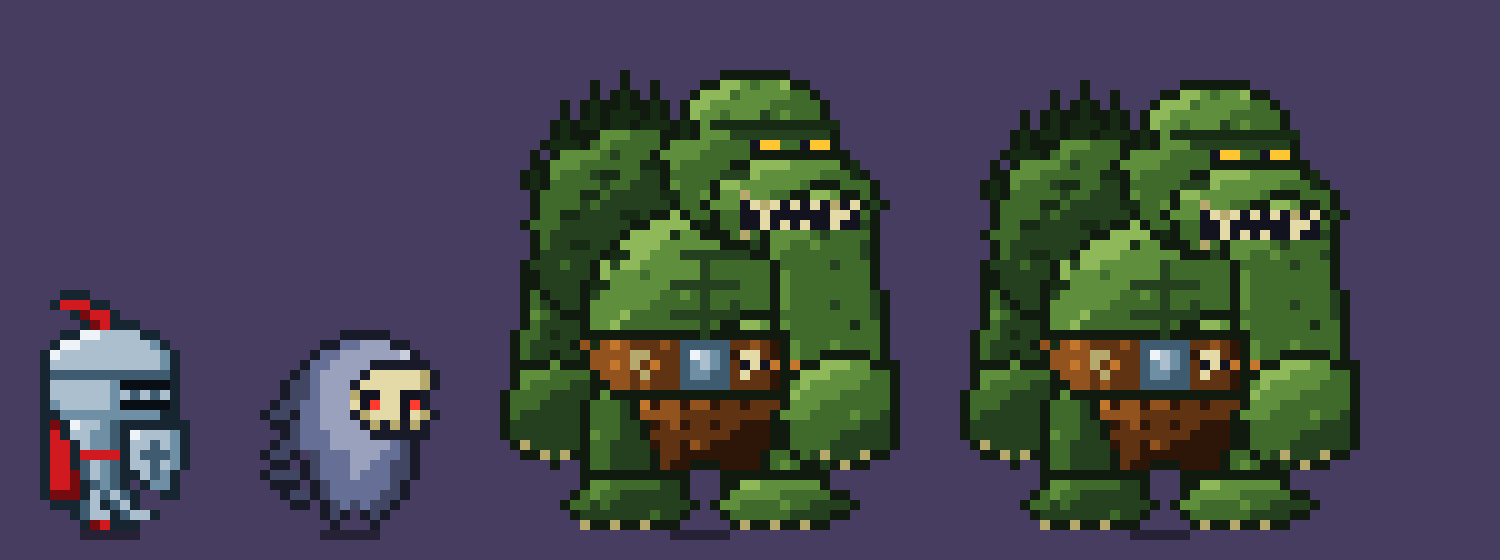
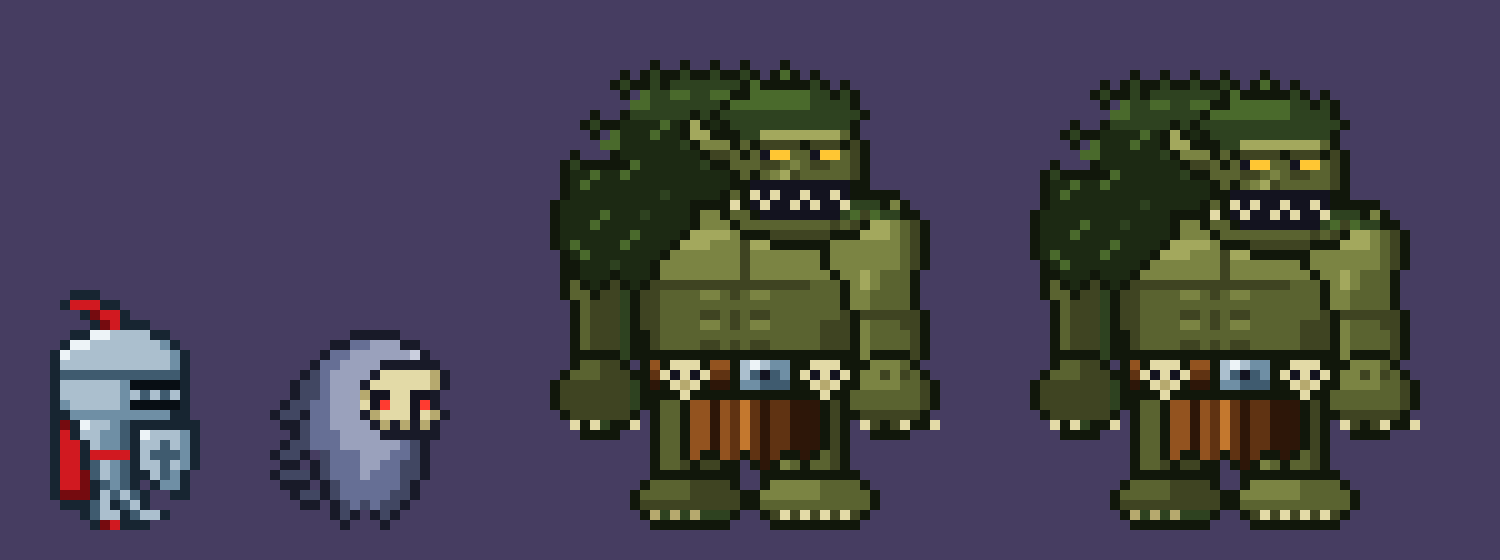
Troll redesign after the reference (olive skin, moss mane, V body), raised side shield, gold parry crescent
- Troll 40x48: dark moss mane behind a lighter olive face and chest, gaps between arms and flanks, slit eyes,
  fanged mouth, belt skulls and ring buckle; new troll skin and moss ramps
- Shield: 11x14 heater held on the facing side, visor clear
- Block: drawParry, a smaller copy of the sword crescent in the coin ramp (shared drawCrescent; sword unchanged)
- STYLE_GUIDELINES updated, previews in docs/

diff --git a/public/app.js b/public/app.js
@@ -80,7 +80,7 @@ const ANIM_MS = 260;              // idle animation frame time
 const STRIKE_MS = 800;            // strike overlay: held at full strength, then fades (STRIKE_HOLD)
 const STRIKE_HOLD = .5;           // share of STRIKE_MS before the fade starts
 const STRIKE_COLOR = '#ff3a2c', BLOCK_COLOR = '#8fb4ff';
-const SHIELD_SLASH_MS = 200;      // the block spark: 4 discrete frames, shorter than the sword's slash
+const SHIELD_SLASH_MS = 260;      // the parry crescent: 6 frames like the sword's slash, a little quicker
 const SLASH_MS = 340;             // the slash crescent sweeps in the first part of STRIKE_MS, then is gone
 // Slash palette, outer rim to bright core: the explorer's sword is white-blue, a ghost's claw red-white.
 const SLASH_COLORS = {
@@ -895,19 +895,26 @@ function drawSlash(st, t, cx, cy, known, reveal) {
   const [tx, ty] = scr(mx, my);
   let dx = tx - ox, dy = ty - oy;
   if (Math.hypot(dx, dy) < 2) { dx = FACE_X[game.facing] ?? 1; dy = 0; } // no aim known: slash across the cell
+  drawCrescent(ox, oy, dx, dy, t, {
+    frames: SLASH_FRAMES, sweep: 2.3, reach: Math.min(26, Math.max(13, Math.hypot(dx, dy) * 1.25)),
+    wTail: 1.5, wHead: 6, bow: 1.5, pal: SLASH_COLORS[st.by === 'explorer' ? 'sword' : 'claw'], alpha: st.result === 'miss' ? .6 : 1,
+  });
+}
+
+// The crescent both swings share (the sword slash and the shield's parry), swept around (ox, oy) toward (dx, dy):
+// `frames` discrete frames, `sweep` radians when finished, arc radius `reach`, half-width swelling from `wTail` at
+// the tail to about wTail + wHead at the head, the head bowed `bow` px further out; 4 tones of `pal`, rim to core.
+function drawCrescent(ox, oy, dx, dy, t, { frames, sweep, reach, wTail, wHead, bow, pal, alpha }) {
   const aim = Math.atan2(dy, dx);
-  const reach = Math.min(26, Math.max(13, Math.hypot(dx, dy) * 1.25)); // radius of the arc
   const flip = dx >= 0 ? 1 : -1; // the swing is mirrored for a cut toward the left of the screen
-  const frame = Math.min(SLASH_FRAMES - 1, Math.floor(t * SLASH_FRAMES));
-  const sweepFull = 2.3; // radians covered by a finished slash
-  const p = (frame + 1) / SLASH_FRAMES;                   // how far the head has swept
-  const tail = Math.max(0, p * 1.35 - 1) * sweepFull;       // the tail catches up late: the crescent thins out
-  const head = p * sweepFull;
-  const fade = frame >= SLASH_FRAMES - 2 ? .55 : 1;
-  const pal = SLASH_COLORS[st.by === 'explorer' ? 'sword' : 'claw'];
-  const lead = flip > 0 ? aim - sweepFull / 2 : aim + sweepFull / 2; // where the sweep starts
-  b.globalAlpha = (st.result === 'miss' ? .6 : 1) * fade;
-  const R = Math.ceil(reach + 6);
+  const frame = Math.min(frames - 1, Math.floor(t * frames));
+  const p = (frame + 1) / frames;                          // how far the head has swept
+  const tail = Math.max(0, p * 1.35 - 1) * sweep;          // the tail catches up late: the crescent thins out
+  const head = p * sweep;
+  const fade = frame >= frames - 2 ? .55 : 1;
+  const lead = flip > 0 ? aim - sweep / 2 : aim + sweep / 2; // where the sweep starts
+  b.globalAlpha = alpha * fade;
+  const R = Math.ceil(reach + wHead);
   for (let y = -R; y <= R; y++) {
     for (let x = -R; x <= R; x++) {
       const r = Math.hypot(x, y);
@@ -915,8 +922,8 @@ function drawSlash(st, t, cx, cy, known, reveal) {
       ang = Math.atan2(Math.sin(ang), Math.cos(ang)) * flip; // signed angle along the sweep, 0 at its start
       if (ang < tail || ang > head) continue;
       const u = (ang - tail) / Math.max(.001, head - tail);    // 0 at the tail, 1 at the head
-      const w = (1.5 + 6 * Math.sin(Math.min(1, u * .9 + .1) * Math.PI * .5) * (1 - .35 * (1 - u) * (1 - u))); // half-width
-      const off = r - reach + (u - .5) * 1.5;                 // the arc bows: the head sits a touch further out
+      const w = (wTail + wHead * Math.sin(Math.min(1, u * .9 + .1) * Math.PI * .5) * (1 - .35 * (1 - u) * (1 - u))); // half-width
+      const off = r - reach + (u - .5) * bow;                 // the arc bows: the head sits a touch further out
       if (Math.abs(off) > w) continue;
       const f = 1 - Math.abs(off) / w;                        // 0 at the rim, 1 on the centre line
       const tone = f > .72 && u > .25 ? 3 : f > .45 ? 2 : f > .2 ? 1 : 0;
@@ -927,43 +934,22 @@ function drawSlash(st, t, cx, cy, known, reveal) {
   b.globalAlpha = 1;
 }
 
-// Block spark (a claw met the shield): not a slash but an impact burst on the shield's edge toward the attacker,
-// in 4 discrete frames of the coin-gold ramp: a white-hot cross, a tight ring, a broken wide ring, then a few
-// fading sparks. Rings are 2:1 iso diamonds (|dx| + 2|dy|), so they match the floor's slope. Per pixel, no
-// rotation. Skipped when the attacker's cell is outside the light unless Reveal is on, like the slash.
-const SPARK_FRAMES = 4;
-const SPARK_SCATTER = [[-13, 0], [13, 0], [0, -7], [0, 7], [-9, -4], [9, 4], [-9, 4], [9, -4]];
-function drawBlockSpark(from, t, cx, cy, known, reveal) {
+// Parry (a claw met the shield): the sword's crescent, smaller and in the coin-gold ramp (the shield's face),
+// swept from the raised shield toward the attacker: the shield knocks the claw aside. Same frame count and
+// thin-tail / fat-head shape as the slash at about half its size (radius 11, head about 4.5 px half-width).
+// Skipped when the attacker's cell is outside the light unless Reveal is on, like the slash.
+const PARRY_FRAMES = 6;
+function drawParry(from, t, cx, cy, known, reveal) {
   if (!Number.isInteger(from[0]) || !Number.isInteger(from[1]) || !(reveal || known(from[0], from[1]))) return;
   const scr = (x, y) => [(x - y) * HW - cx, (x + y) * HH + HH - cy];
   const [kx, ky] = scr(game.pos[0], game.pos[1]);
   const [ax, ay] = scr(from[0], from[1]);
   let dx = ax - kx, dy = ay - ky;
   if (Math.hypot(dx, dy) < 2) { dx = FACE_X[game.facing] ?? 1; dy = 0; }
-  const len = Math.hypot(dx, dy);
-  const ix = Math.round(kx + (dx / len) * 8), iy = Math.round(ky - 10 + (dy / len) * 4); // shield edge, at torso height
-  const pal = SLASH_COLORS.shield;
-  const dot = (x, y, tone) => { b.fillStyle = pal[tone]; b.fillRect(ix + x, iy + y, 1, 1); };
-  const frame = Math.min(SPARK_FRAMES - 1, Math.floor(t * SPARK_FRAMES));
-  if (frame === 0) {
-    dot(0, 0, 3);
-    for (const [x, y] of [[1, 0], [-1, 0], [0, 1], [0, -1]]) dot(x, y, 2);
-  } else if (frame === 1) {
-    for (let y = -3; y <= 3; y++) for (let x = -7; x <= 7; x++) {
-      const d = Math.abs(x) + 2 * Math.abs(y);
-      if (d === 5 || d === 6) dot(x, y, d === 5 ? 3 : 2);
-    }
-  } else if (frame === 2) {
-    for (let y = -5; y <= 5; y++) for (let x = -12; x <= 12; x++) {
-      const d = Math.abs(x) + 2 * Math.abs(y);
-      if ((d === 10 || d === 11) && (Math.abs(x) + Math.abs(y)) % 2 === 0) dot(x, y, d === 10 ? 2 : 1);
-    }
-    for (const [x, y] of [[-8, 0], [8, 0], [0, -4], [0, 4]]) dot(x, y, 3);
-  } else {
-    b.globalAlpha = .55;
-    for (const [x, y] of SPARK_SCATTER) dot(x, y, 1);
-    b.globalAlpha = 1;
-  }
+  const face = actors.get('@')?.face ?? 1;
+  drawCrescent(kx + face * SHIELD_HOLD_X, ky - SHIELD_TOP + SHIELD_H / 2, dx, dy, t, {
+    frames: PARRY_FRAMES, sweep: 1.9, reach: 11, wTail: 1, wHead: 3.5, bow: .8, pal: SLASH_COLORS.shield, alpha: 1,
+  });
 }
 
 // pass 'fill' runs in the flats pass, 'edge' after the entities; only 'edge' retires strikeFx.
@@ -995,41 +981,44 @@ function drawStrikes(cx, cy, now, known, reveal, pass = 'fill') {
     for (const st of strikeFx.strikes) {
       const blockedClaw = st.result === 'blocked' && st.by !== 'explorer';
       if (t < 1 && !blockedClaw) drawSlash(st, t, cx, cy, known, reveal); // a blocked claw shows only the shield's spark
-      // A blocked claw bursts a spark on the shield's edge facing the attacker.
-      if (blockedClaw && ts < 1 && Array.isArray(st.from) && Array.isArray(game.pos)) drawBlockSpark(st.from, ts, cx, cy, known, reveal);
+      // A blocked claw: the raised shield parries with a small gold crescent toward the attacker.
+      if (blockedClaw && ts < 1 && Array.isArray(st.from) && Array.isArray(game.pos)) drawParry(st.from, ts, cx, cy, known, reveal);
     }
   }
 }
 
-// Shield over the knight while game.block is active: a 15x14 art px heater shield, hand-placed like the sprites.
-// Steel ramp rim (outline #172531; lit top-left, shaded bottom-right; W rivets), coin-gold face (h lit, Y body,
-// y shade) with a steel boss on a centre seam. Authored at full brightness; it flashes on the block's spark frames.
-const SHIELD_W = 15, SHIELD_H = 14;
+// Shield raised while game.block is active: an 11x14 art px heater shield, hand-placed like the sprites, held out
+// on the knight's facing side over the small shield in its sprite (the visor stays clear). Steel ramp rim
+// (outline #172531; W lit top-left edge, M right, D shaded bottom-right; W rivets in the top corners), coin-gold
+// face split down a seam (h / Y lit half, y shaded half) with a domed steel boss. Symmetric, so it is not mirrored;
+// the light stays upper left. Authored at full brightness; it flashes on alternate parry frames.
+const SHIELD_W = 11, SHIELD_H = 14;
+const SHIELD_HOLD_X = 5, SHIELD_TOP = 13; // centre column from the knight's anchor (toward its face), top row above the feet
 const SHIELD_COLORS = { o: '#172531', D: '#3f5b6f', M: '#6f8fa5', L: '#abbfce', W: '#edf3f7', y: '#c98a14', Y: '#ffc633', h: '#fff0a8' };
 const SHIELD_FLASH = { o: '#edf3f7', D: '#abbfce', M: '#edf3f7', L: '#ffffff', W: '#ffffff', y: '#ffc633', Y: '#fff0a8', h: '#ffffff' };
 const SHIELD_ROWS = [
-  '.ooooooooooooo.',
-  'oWLLLLLLLLLLLMo',
-  'oLhhhhhhhhhhhWo',
-  'oLhhYYYyYYYYYMo',
-  'oLhYYYYyYYYYyMo',
-  'oLhYYYLWLYYYyMo',
-  'oLYYYYMLDYYyyMo',
-  'oLYYYYMDDYYyyDo',
-  '.oLYYYYyYYyyDo.',
-  '.oLYYYYyYyyyDo.',
-  '..oLYYYyYyyDo..',
-  '...oLYyyyYDo...',
-  '....oMyyyDo....',
-  '.....ooooo.....',
+  '.ooooooooo.',
+  'oWWLLLLLLMo',
+  'oWhhhhYYyMo',
+  'oLhYYYYyyMo',
+  'oLhYYLYyyMo',
+  'oLhYLWMyyMo',
+  'oLYYMMDyyDo',
+  'oLYYYDyyyDo',
+  '.oLYYYyyDo.',
+  '.oLYYYyyDo.',
+  '..oLYYyDo..',
+  '..oMYYyDo..',
+  '...oMyDo...',
+  '....ooo....',
 ];
-function drawShield(x, y, now) { // x: centre column, y: top row; flashes while a block's spark plays
+function drawShield(x, y, now) { // x: centre column, y: top row; flashes on alternate parry frames
   const flashing = strikeFx && strikeFx.strikes.some((st) => st.result === 'blocked' && st.by !== 'explorer')
-    && (now - strikeFx.t0) / SHIELD_SLASH_MS < 1 && Math.floor((now - strikeFx.t0) / SHIELD_SLASH_MS * SPARK_FRAMES) % 2 === 0;
+    && (now - strikeFx.t0) / SHIELD_SLASH_MS < 1 && Math.floor((now - strikeFx.t0) / SHIELD_SLASH_MS * PARRY_FRAMES) % 2 === 0;
   SHIELD_ROWS.forEach((row, ry) => [...row].forEach((ch, rx) => {
     if (ch === '.') return;
     b.fillStyle = (flashing ? SHIELD_FLASH : SHIELD_COLORS)[ch];
-    b.fillRect(x - 7 + rx, y + ry, 1, 1);
+    b.fillRect(x - (SHIELD_W >> 1) + rx, y + ry, 1, 1);
   }));
 }
 
@@ -1128,7 +1117,7 @@ function drawEntity(en, now, cx, cy) {
     const blink = game?.invulnerable && Math.floor(now / BLINK_MS) % 2 === 1;
     blitSprite(spr, px, py, en.face, blink ? .3 : 1);
     drawCoinGlow(px, py, now);
-    if (game?.block) drawShield(px, py - 13, now); // top edge two rows into the helmet's bottom: covers about a quarter of the helmet
+    if (game?.block) drawShield(px + en.face * SHIELD_HOLD_X, py - SHIELD_TOP, now); // raised on the facing side, below the visor
     heads.set(en.id, { x: px, y: py - spr.anchorY, alpha: 1 });
     return;
   }

diff --git a/public/sprites.js b/public/sprites.js
@@ -128,82 +128,87 @@ const CHEST_A = [
 ];
 
 const TROLL_PAL = {
-  o: '#101a0e', // outline (green-tinted dark)
-  m: '#172b14', // moss (deep shade)
-  d: '#25401f', // skin shade
-  g: '#3f6a2b', // skin
-  l: '#5f8f3c', // skin light
-  h: '#8fb85a', // skin highlight
-  e: '#ffc633', // glowing yellow eye (coin gold)
-  k: '#13131f', // mouth, pupils
-  b: '#e3daa7', // teeth, tusks, claws, belt trinkets (bone ramp)
+  o: '#11170b', // outline (olive-tinted dark)
+  m: '#1c2913', // moss deep
+  d: '#2e4220', // moss
+  v: '#4a6a2c', // moss tuft light
+  s: '#3f4422', // skin shade (olive)
+  g: '#5a6330', // skin
+  l: '#7b8443', // skin light
+  h: '#a3a85d', // skin highlight
+  e: '#ffc633', // glowing slit eyes (coin gold)
+  k: '#13131f', // mouth, skull sockets (bone ramp socket)
+  b: '#e3daa7', // fangs, tusks, claws, skulls (bone ramp)
   B: '#b6a96e', // bone shade
   x: '#2d1608', // belt and loincloth (wood ramp)
   w: '#603312',
   W: '#93531f',
   c: '#c4782e',
-  n: '#3f5b6f', // belt buckle (steel ramp)
+  n: '#3f5b6f', // ring buckle (steel ramp)
   M: '#6f8fa5',
   L: '#abbfce',
   q: '#edf3f7',
 };
 
 // ---------------------------------------------------------------- troll 40x48 (two blocks tall: twice the knight)
-// A hunched brute lit from the upper left: a moss-spiked hump, a fanged jaw with two tusks and glowing eyes, long
-// arms ending in clawed fists, a wood belt with a steel buckle and bone trinkets, a ragged loincloth. Far limbs
-// and the back sit one tone darker for depth. TROLL_B settles the head and shoulders one row (breathing).
+// A hunched brute lit from the upper left. Value hierarchy: a dark moss mane (crest over the crown, drape over the
+// far shoulder) behind a lighter olive face and chest, split from the legs by the dark belt. A V-shaped body with
+// clear gaps between the arms and the flanks; a small forward head with a pointed ear, gold slit eyes and a fanged
+// mouth; pecs and abs drawn with shade tones, not outlines. Story details: the steel ring buckle, two bone skulls on
+// the belt, rag strips on the loincloth, bone claws on fists and toes. The far arm and leg sit one tone darker.
+// TROLL_B settles everything above row 21 (a plain chest row under the pecs) by one row (breathing).
 const TROLL_A = [
   '........................................',
-  '........................................',
-  '............o.........ooooooo...........',
-  '.........o..o..o....oohhlgllhoo.........',
-  '.........o.omo.o...ohhhglllllggo........',
-  '......o.omoomoomo.ohhllllllgggggo.......',
-  '......o.omommmomo.ohllgllldglgggo.......',
-  '.....omommommommmomolmmmmmmmmmmmmm......',
-  '.....omooolllgggoomolllddddddddddo......',
-  '....ommmoglgggggollllggggkeeggkeeo......',
-  '...o.ollllgdgggollllgggggoooooooooo.....',
-  '...oolllggggggmmolgggggoohhhhlllllom....',
-  '..omolgggdmmggddogggggdddhllllllgggmo...',
-  '..omogggggdggdddolgggohhllllllgooogggo..',
-  '...oggggmmgdddddmmgglollBllggoohhloogo..',
-  '...oggggdgdddddddoggolllkbBbkbkbkBkbodo.',
-  '...oggmmddddmmdoohoggoggkkbkkkkkkbbkgo..',
-  '..ogggdddddddoohhhhomoggkkbkbkbkkbkkdo..',
-  '...ogdddddddohhhhmllooogBgollllgdggggo..',
-  '...ogddmmddohhhhllllllooodollgglggggdo..',
-  '...oddddddommhhllldddddddoolggggggggdo..',
-  '..odddgddohdhhlllllldggggggogggggdgggo..',
-  '..oodddddohlllgllllldggggggolggggggggo..',
-  '..ooddddommlllllldddddddgggolggggggggo..',
-  '..ogodddodllllllgglgdggggggolggggggggdo.',
-  '..ogdoddollllllgggggdggdgggolggggdgggdo.',
-  '..olgdooolllhggggdddddddoooogggggggggdo.',
-  '..ogddddollhggggggggdgoohhlolggggggmggo.',
-  '.oggdmddoooooooooooodoooooooogggggggggo.',
-  '.ogddddoWmWcWwwwWwnnnnnwwWwxolggglggggo.',
-  '.ogddoddoWWWWBBwwwnqLMnxbbwxolggooooogo.',
-  '.ooooloooWWcWBwcwwnMLMnwkbkcocoohhhllooo',
-  '.olllggggoWWWwBwwwnMMnnwbwwxoohhhllllggo',
-  '.olggggddooWWwWwwwnnnnnwwwwxolhlllllgggo',
-  'oggggddddoloooooooooooooooooohllllgggggo',
-  'ogggddddogggdocxWWxWWxwwxwwwolllgggggggo',
-  'ogddddddogggdoWWWWwwwwwwwwwolllgggglggdo',
-  'odddddddogggddoxwWxwwxwwxxxoogggggggdddo',
-  'odddddddolggddowwwwwwwwxxxxoogggggdddddo',
-  '.oBdddddoggddddxwwxWwxxxxxxooggggddddddo',
-  '..ooBdBooggddddowwxxxxxxxxoggogdBdddBoo.',
-  '.....o..oggddddowxxoooxxxxoglgoodoBoo...',
-  '........ooooooooooo...ooooooooooo.......',
-  '........ollgggggddo...oohhllllllo.......',
-  '.......oglggddddddo...olllllgggggoo.....',
-  '......oggdgddddddddo.ollgggglggddddo....',
-  '.......odddddddgddo...oggggggddddoo.....',
-  '........BooBooBooo.....oBooBooBoo.......',
+  '...........o..o..o..o...o...............',
+  '........o.odoodoodoodo.ovo.o............',
+  '.......odoododddddddovooooodo.o.........',
+  '........o.vddvvddvvoovvvvvvddodo........',
+  '.........vvdddddddovvvvvvvvddddo........',
+  '.....o..oddddddododdddddddddddddo.......',
+  '....odoommmmvmohomoddddddddddddo........',
+  '.....o.vmmmvmmohhoooddhhhhhhhhgo........',
+  '......vvmmmmmmdolllogossssosssoso.......',
+  '...o...ommmmmmmmossgogkeeggkeegso.......',
+  '..odooooovmmmmmmdoogggssglgssggso.......',
+  '..ommvmmvmmmmmmmmmmogoglhsgggggso.......',
+  '..omvmmmmmmmmmmmmmmookkkkkkkkkkoo.......',
+  '..ommmmmmmmmdmmmmmogobkbkkbkkbkooooo....',
+  '.ommmmmmmmmmmmmoooobokbkkbkbkkbdddolo...',
+  '.ommmmvmmmdmmmmolloggokkkkkkkkdvsvddoo..',
+  '.ommmvmmmmmmmmmolllogggggggggsgsohhlgso.',
+  '.ommmmmmmvmmmmohhhhlooossssssooohhhlgso.',
+  '.omvmmmmvmmmmohhhlllshhoooooolllllllgso.',
+  '..omvmmmmmmmolllllllslllllllolllllllgso.',
+  '..oommmdmmmollllllllslllllllolllllllgso.',
+  '..oommmommmollllllllsllllllllollhlgggo..',
+  '..ogomosomossssssssssssssssgggolhlgggo..',
+  '..oggossdossggggllgsgllgggggggollggggo..',
+  '...ogsssdossggggggggggggggggggollggggo..',
+  '...ogsssdossggggssgsgssgggggggsosssssso.',
+  '...ogsssdossggggllgsgllgggggsssolgggsso.',
+  '...ogsssdoosggggggggggggggggsssolggggso.',
+  '...ogsssdoosggggssgsgssgggggsssolggggso.',
+  '...ooooodooooooooooooooooooooooolooooso.',
+  '...oggsso.oWobbboWWoLqLMMoobbbooolllgo..',
+  '..ogggsssoowbkbkbwwoLnknMobkbkbollslsgo.',
+  '.osssssssdoxobBboxxoMMnnnoobBboollllggso',
+  '.osssssssdooooboooooooooooooboogggggggso',
+  '.osssssssdooggoWWxWwcwxwwxxxosogggggggso',
+  '..osssssso.oggoWWxWwcwxwwxxxosoosssssso.',
+  '...bobdoob.oggoWWxWwcwxwwxxxoso.bsosboob',
+  '....oooo...oggoWWxWwcwxwwxxxoso..oooo...',
+  '...........oggoWWxWwcwxwwxxxoso.........',
+  '...........oggoWooWwowxwooxogso.........',
+  '...........oggsossoo.oxolgoggso.........',
+  '...........ooooooooo..oooooooooo........',
+  '..........oggggsssso..olllllggggo.......',
+  '.........ogggggsssssoollllllgggggo......',
+  '.........ossssssssssoogggggggggggo......',
+  '..........oBdBdBdddo..osbsbsbsbso.......',
+  '...........oooooooo....ooooooooo........',
 ];
 
-const TROLL_B = ['.'.repeat(40), ...TROLL_A.slice(0, 20), ...TROLL_A.slice(21)];
+const TROLL_B = ['.'.repeat(40), ...TROLL_A.slice(0, 21), ...TROLL_A.slice(22)];
 
 // ----------------------------------------------------------------- coin 7x7
 const COIN_PAL = { o: '#3a2406', y: '#ffc633', L: '#fff0a8', d: '#c98a14' };

diff --git a/STYLE_GUIDELINES.md b/STYLE_GUIDELINES.md
@@ -25,7 +25,7 @@ The user picked these as the best expression of the style. Match them when you m
 | --- | --- | --- | --- |
 | Knight (explorer) | `public/sprites.js` `KNIGHT_A` / `KNIGHT_B` | 18×24, anchor (9, 23) | A steel ramp of 4 tones plus a red accent; a readable silhouette (plume, visor slit, shield arm, cape) at tiny size; a breathing frame built by shifting rows |
 | Ghost (adversary) | `public/sprites.js` `GHOST_A` / `GHOST_B` | 18×20, anchor (9, 19) | A hooded cloth ramp, a bone skull face and one glowing red eye pixel per socket; a ragged hem that alternates between the two frames |
-| Troll | `public/sprites.js` `TROLL_A` / `TROLL_B` | 40×48 (two character blocks: twice the knight's 24 px), anchor (20, 47) | A hunched brute lit from the upper left, built from its own green ramp plus the shared bone, wood and steel ramps: moss-spiked hump, fanged jaw with tusks and glowing eyes, clawed fists, belt with a steel buckle; far limbs and the back sit one tone darker for depth; the breathing frame drops one row under the head. Art only, not placed in the game yet. Preview next to the knight and ghost: [docs/troll-preview.png](docs/troll-preview.png) |
+| Troll | `public/sprites.js` `TROLL_A` / `TROLL_B` | 40×48 (two character blocks: twice the knight's 24 px), anchor (20, 47) | A hunched brute lit from the upper left, built from its own olive skin and moss ramp plus the shared bone, wood and steel ramps. Read it by value: a dark moss mane (a spiky crest over the crown, a drape over the far shoulder, 2-3 px tufts) behind a lighter olive face and chest, cut from the legs by the dark belt. A V-shaped body with background gaps between the arms and the flanks; a small forward head with a pointed ear, gold slit eyes and a fanged mouth; pecs and abs drawn in shade tones, not outlines. Story details: a steel ring buckle, two bone skulls on the belt, rag strips on the loincloth, bone claws on the fists and toes. The far arm and leg sit one tone darker; the breathing frame drops everything above row 21 by one row. Art only, not placed in the game yet. Preview next to the knight and ghost: [docs/troll-preview.png](docs/troll-preview.png) |
 | Sword slash | `public/app.js` `drawSlash`, `SLASH_COLORS` | Arc radius 13 to 26 | A per-pixel crescent: thin tail, fat leading head, a 4-tone ramp from a dark rim to a white core |
 | Floor tiles | `public/app.js` `stonePattern`, `PALETTE.floor*`, `mortar` | 32×16 diamond | Flagstones, cobbles or a cracked slab; 1 px mortar; a lit top-left bevel and a dark bottom-right bevel per stone; sparse pixel noise |
 | Storage chest | `public/props/floor-art.js` `makeChest` | 24×23 | An iso box with a separate lid, two steel bands that wrap over the lid, a lock plate, a keyhole pixel and rivets |
@@ -52,7 +52,8 @@ Ramps are listed dark → light. The character in brackets is the palette key th
 | **Glazed blue** | wood outline | `#1f2c61` (b) · `#344994` (B) · `#657fce` (n) | Jars, pots (`#131a3c` deep shade on pots) |
 | **Sack** | wood outline | `#634c25` (Z) · `#957437` (A) · `#c49e56` (a) | Shelf sack |
 | **Glass** | wood outline | `#51987a` (g) · `#85c9a8` (G) | Shelf bottle |
-| **Troll skin** | `#101a0e` | `#172b14` (m, moss) · `#25401f` (d) · `#3f6a2b` (g) · `#5f8f3c` (l) · `#8fb85a` (h, belly and brow) | Troll. Eyes use the coin gold `#ffc633`; teeth, tusks and the belt trinket the bone ramp; belt and loincloth the wood ramp; buckle the steel ramp |
+| **Troll skin** (olive) | `#11170b` | `#3f4422` (s) · `#5a6330` (g) · `#7b8443` (l) · `#a3a85d` (h, brow, pecs, shoulder) | Troll body. Eyes use the coin gold `#ffc633`; fangs, tusks, claws and the belt skulls the bone ramp (sockets and mouth `#13131f`); belt and loincloth the wood ramp; buckle the steel ramp |
+| **Troll moss** | `#11170b` | `#1c2913` (m, deep) · `#2e4220` (d) · `#4a6a2c` (v, tuft) | Troll mane and crest: kept darker than the skin so the face and chest read in front of it |
 
 ### Accents (saturated, meaningful, used sparingly)
 
@@ -72,7 +73,7 @@ Ramps are listed dark → light. The character in brackets is the palette key th
 | --- | --- |
 | Sword (explorer) | `#2a2392` · `#5b4fe0` · `#a9a4ff` · `#ffffff` |
 | Claw (ghost) | `#6b0f12` · `#c22a2a` · `#ff8f80` · `#fff1ea` |
-| Shield spark (blocked claw) | `#c98a14` · `#ffc633` · `#fff0a8` · `#ffffff` (the coin ramp) |
+| Shield parry (blocked claw) | `#c98a14` · `#ffc633` · `#fff0a8` · `#ffffff` (the coin ramp) |
 
 ### World ramps: stone, light and fog
 
@@ -121,7 +122,7 @@ The page's colours echo the canvas: navy panels and amber accent.
 | Solid floor props | About 24-25 × 23-30, roughly one cell's diamond wide (chest 24×23, shelf 24×30, crates 25×30) | floor-art.js |
 | Coin | 7×7 | `COIN_A` |
 | Wall decor | At most 14×19, front view, bottom row on the floor line | wall-art.js header |
-| Shield overlay | 15×14 hand-placed heater shield (steel rim with rivets, gold face, steel boss on a centre seam), top 13 px above the feet | `SHIELD_ROWS`, `drawShield` |
+| Shield overlay | 11×14 hand-placed heater shield (steel rim lit top-left with rivet corners, coin-gold face split lit / shaded down a seam, domed steel boss), held out on the facing side: centre 5 px from the anchor toward the face, top 13 px above the feet, over the sprite's own small shield so the visor stays clear. Symmetric, never mirrored | `SHIELD_ROWS`, `SHIELD_HOLD_X`, `SHIELD_TOP`, `drawShield` |
 | Hp pips | 2×2 fill in a 4×4 dark frame, 4 px apart | `drawEntity` |
 | Shadows | Pixel ellipse 6×2 under the knight and ghosts, 4×1 under coins | `pixelEllipse` |
 
@@ -217,7 +218,7 @@ Build solid props from the `Layer` painter rather than typing big grids:
 | Chase glow | 3 red rings, pulse `.75 + .25·sin(now/180)` | `drawEntity` |
 | Sword / claw slash | 340 ms, 6 frames | `SLASH_MS` |
 | Strike diamonds | 800 ms (hold 50%, 2 pulses, fade) | `STRIKE_MS`, `STRIKE_HOLD` |
-| Shield block spark | 200 ms, 4 frames: white-hot cross, tight ring, broken wide ring, scattered sparks (rings are 2:1 iso diamonds on the shield edge toward the attacker). The shield flashes to `SHIELD_FLASH` tones on frames 0 and 2 | `SHIELD_SLASH_MS`, `drawBlockSpark` |
+| Shield parry | 260 ms, 6 frames: the sword slash's crescent (same `drawCrescent`, thin tail, fat head, tail catching up late, last 2 frames at .55) at about half its size (radius 11, sweep 1.9 rad, head about 4.5 px half-width) in the coin ramp, swept from the raised shield toward the attacker. The shield flashes to `SHIELD_FLASH` tones on frames 0, 2 and 4 | `SHIELD_SLASH_MS`, `drawParry`, `drawCrescent`. Preview (old shield, new shield both facings, sword slash frames above the parry frames): [docs/shield-preview.png](docs/shield-preview.png) |
 | Hit protection | The knight blinks every 120 ms at alpha .3 | `BLINK_MS` |
 | Torch / fireplace / gate | 130 / 150 / 200 ms per frame | `frameMs` in wall-art.js |
 | Coins | 1 px bob, `sin(now/380 + cell phase)` | `drawEntity` |
